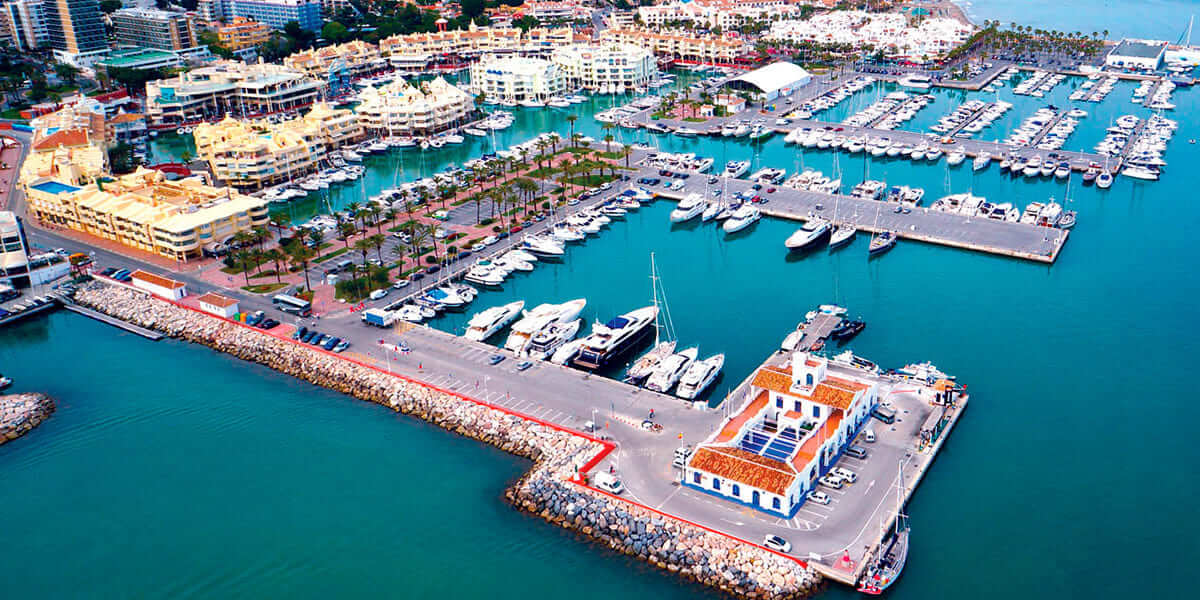
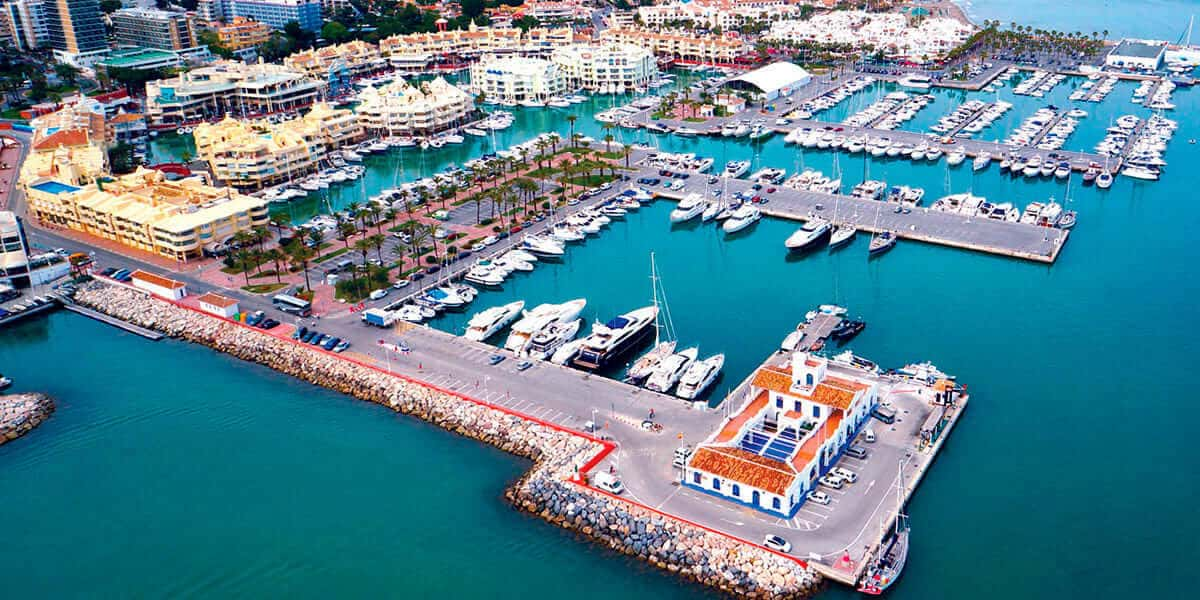
resize de img y agregado de alt

diff --git a/index.html b/index.html
@@ -18,7 +18,7 @@
       <div class="container py-2">
         <nav class="navbar navbar-expand-lg  navbar-dark  ">
           <div class="container-fluid">
-            <a class="navbar-brand" href="https://www.booking.com/hotel/es/the-boathouse.es.html?dest_type=city&group_adults=2&dest_id=-373144&sid=f385353f245ebfdc8c67cee8d29f7245&aid=397594&atlas_src=sr_iw_btn&type=total&sb_price_type=total&ucfs=1&label=gog235jc-1DCAEoggI46AdIClgDaEaIAQGYAQq4ARfIAQzYAQPoAQH4AQKIAgGoAgO4Ase_uZ4GwAIB0gIkNzZhNTFlMzItZWQ2Yy00YzJiLTkzZmQtYWY5ZDViZmU5MDk42AIE4AIB&no_rooms=1&room1=A%2CA&dist=0&group_children=0" target="_blank">
+            <a class="navbar-brand" href="https://www.booking.com/hotel/es/the-boathouse.es.html?dest_type=city&group_adults=2&dest_id=-373144&sid=f385353f245ebfdc8c67cee8d29f7245&aid=397594&atlas_src=sr_iw_btn&type=total&sb_price_type=total&ucfs=1&label=gog235jc-1DCAEoggI46AdIClgDaEaIAQGYAQq4ARfIAQzYAQPoAQH4AQKIAgGoAgO4Ase_uZ4GwAIB0gIkNzZhNTFlMzItZWQ2Yy00YzJiLTkzZmQtYWY5ZDViZmU5MDk42AIE4AIB&no_rooms=1&room1=A%2CA&dist=0&group_children=0" target="_blank" title="link_booking">
               <h1 class="header__logo">The Boathouse</h1>
             </a>
             <button class="navbar-toggler" type="button" data-bs-toggle="collapse"
@@ -29,25 +29,25 @@
             <div class="collapse navbar-collapse" id="navbarSupportedContent">
               <ul class="navbar-nav ms-auto mb-2 mb-lg-0 navbar__ul">
                 <li class="nav-item">
-                  <a class="nav-link nav__link-text" href="#descripcion">Descripición</a>
+                  <a class="nav-link nav__link-text" href="#descripcion" title="descripcion">Descripción</a>
                 </li>
                 <li class="nav-item">
-                  <a class="nav-link nav__link-text" href="#habitaciones">Habitaciones</a>
+                  <a class="nav-link nav__link-text" href="#habitaciones" tittle="habitaciones">Habitaciones</a>
                 </li>
                 <li class="nav-item">
-                  <a class="nav-link nav__link-text" href="#ubicacion">Ubicación</a>
+                  <a class="nav-link nav__link-text" href="#ubicacion" tittle="ubicación">Ubicación</a>
                 </li>
                 <li class="nav-item">
-                  <a class="nav-link nav__link-text" href="#contacto">Contacto</a>
+                  <a class="nav-link nav__link-text" href="#contacto" tittle="contacto">Contacto</a>
                 </li>
                 <li class="nav-item dropdown">
                   <a class="nav-link dropdown-toggle" href="#" role="button" data-bs-toggle="dropdown"
-                    aria-expanded="false">
+                    aria-expanded="false" title="menu_idiomas">
                     Idioma
                   </a>
                   <ul class="dropdown-menu">
-                    <li><a class="dropdown-item" href="#">Español</a></li>
-                    <li><a class="dropdown-item" href="#">English</a></li>
+                    <li><a class="dropdown-item" href="#" title="pag_español">Español</a></li>
+                    <li><a class="dropdown-item" href="#" title="pag_english">English</a></li>
                   </ul>
                 </li>
                 </ul>
@@ -60,7 +60,7 @@
   <!-------- MAIN -------->
   <main>
     <div class="main__banner banner">
-      <img src="./assets/img/benalmadena(2).jpg" alt="puerto marina benalmadena" class="d-block w-100 banner__img">
+      <img src="./assets/img/benalmadena(2).jpg" alt="puerto_marina_benalmadena" class="d-block w-100 banner__img">
     </div>
 
     <!-------- SECTION DESCRIPCION -------->
@@ -69,7 +69,7 @@
       <div class="container">
         <div class="row justify-content-center">
           <div class="text-center col-12 mt-5">
-            <h2>Descripición</h2>
+            <h2>Descripción</h2>
           </div>
 
           <div class="row align-items-center col-12">
@@ -150,7 +150,7 @@
 
           <div class="d-flex justify-content-center align-items-end">
             <button class="btn__style-1">
-              <a class="btn__link btn__comentarios" href="https://www.booking.com/hotel/es/the-boathouse.es.html?auth_success=1&activeTab=htReviews#tab-reviews" target="_blank" title="Comenarios booking">Más comentarios</a>
+              <a class="btn__link btn__comentarios" href="https://www.booking.com/hotel/es/the-boathouse.es.html?auth_success=1&activeTab=htReviews#tab-reviews" target="_blank" title="Comenarios booking" title="seccion_comentarios_booking">Más comentarios</a>
             </button>
           </div>
         </div>
@@ -173,49 +173,49 @@
               <div id="carouselExampleControls-2" class="carousel slide mx-auto my-auto" data-bs-ride="carousel">
                 <div class="carousel-inner d-flex align-items-center carousel__inner-habitaciones">
                   <div class="carousel-item active">
-                    <img src="./assets/img/theboathouse(1).jpg" class="d-block w-100 img-fluid" alt="...">
+                    <img src="./assets/img/theboathouse(1).jpg" class="d-block w-100 img-fluid" alt="imagen_espacio-1">
                   </div>
                   <div class="carousel-item">
-                    <img src="./assets/img/theboathouse(2).jpg" class="d-block w-100 img-fluid" alt="...">
+                    <img src="./assets/img/theboathouse(2).jpg" class="d-block w-100 img-fluid" alt="imagen_espacio-2">
                   </div>
                   <div class="carousel-item">
-                    <img src="./assets/img/theboathouse(3).jpg" class="d-block w-100 img-fluid" alt="...">
+                    <img src="./assets/img/theboathouse(3).jpg" class="d-block w-100 img-fluid" alt="imagen_espacio-3">
                   </div>
                   <div class="carousel-item">
-                    <img src="./assets/img/theboathouse(4).jpg" class="d-block w-100 img-fluid" alt="...">
+                    <img src="./assets/img/theboathouse(4).jpg" class="d-block w-100 img-fluid" alt="imagen_espacio-4">
                   </div>
                   <div class="carousel-item">
-                    <img src="./assets/img/theboathouse(5).jpg" class="d-block w-100 img-fluid" alt="...">
+                    <img src="./assets/img/theboathouse(5).jpg" class="d-block w-100 img-fluid" alt="imagen_espacio-5">
                   </div>
                   <div class="carousel-item">
-                    <img src="./assets/img/theboathouse(6).jpg" class="d-block w-100 img-fluid" alt="...">
+                    <img src="./assets/img/theboathouse(6).jpg" class="d-block w-100 img-fluid" alt="imagen_espacio-6">
                   </div>
                   <div class="carousel-item">
-                    <img src="./assets/img/theboathouse(7).jpg" class="d-block w-100 img-fluid" alt="...">
+                    <img src="./assets/img/theboathouse(7).jpg" class="d-block w-100 img-fluid" alt="imagen_espacio-7">
                   </div>
                   <div class="carousel-item">
-                    <img src="./assets/img/theboathouse(10).jpg" class="d-block w-100 img-fluid" alt="...">
+                    <img src="./assets/img/theboathouse(10).jpg" class="d-block w-100 img-fluid" alt="imagen_espacio-8">
                   </div>
                   <div class="carousel-item">
-                    <img src="./assets/img/theboathouse(11).jpg" class="d-block w-100 img-fluid" alt="...">
+                    <img src="./assets/img/theboathouse(11).jpg" class="d-block w-100 img-fluid" alt="imagen_espacio-9">
                   </div>
                   <div class="carousel-item">
-                    <img src="./assets/img/theboathouse(12).jpg" class="d-block w-100 img-fluid" alt="...">
+                    <img src="./assets/img/theboathouse(12).jpg" class="d-block w-100 img-fluid" alt="imagen_espacio-10">
                   </div>
                   <div class="carousel-item">
-                    <img src="./assets/img/theboathouse(14).jpg" class="d-block w-100 img-fluid" alt="...">
+                    <img src="./assets/img/theboathouse(14).jpg" class="d-block w-100 img-fluid" alt="imagen_espacio-11">
                   </div>
                   <div class="carousel-item">
-                    <img src="./assets/img/theboathouse(15).jpg" class="d-block w-100 img-fluid" alt="...">
+                    <img src="./assets/img/theboathouse(15).jpg" class="d-block w-100 img-fluid" alt="imagen_espacio-12">
                   </div>
                   <div class="carousel-item">
-                    <img src="./assets/img/theboathouse(17).jpg" class="d-block w-100 img-fluid" alt="...">
+                    <img src="./assets/img/theboathouse(17).jpg" class="d-block w-100 img-fluid" alt="imagen_espacio-13">
                   </div>
                   <div class="carousel-item">
-                    <img src="./assets/img/theboathouse(18).jpg" class="d-block w-100 img-fluid" alt="...">
+                    <img src="./assets/img/theboathouse(18).jpg" class="d-block w-100 img-fluid" alt="imagen_espacio-14">
                   </div>
                   <div class="carousel-item">
-                    <img src="./assets/img/theboathouse(19).jpg" class="d-block w-100 img-fluid" alt="...">
+                    <img src="./assets/img/theboathouse(19).jpg" class="d-block w-100 img-fluid" alt="imagen_espacio-15">
                   </div>
                 </div>
                 <button class="carousel-control-prev" type="button" data-bs-target="#carouselExampleControls-2"
@@ -241,7 +241,7 @@
           </div>
           <div class="d-flex justify-content-center align-items-end mt-5">
             <button type="button" class="btn__style-2" href="#" role="button">
-              <a class="btn__link" href="https://www.booking.com/hotel/es/the-boathouse.es.html?aid=397594&label=gog235jc-1DCAEoggI46AdIClgDaEaIAQGYAQq4ARfIAQzYAQPoAQH4AQKIAgGoAgO4Ase_uZ4GwAIB0gIkNzZhNTFlMzItZWQ2Yy00YzJiLTkzZmQtYWY5ZDViZmU5MDk42AIE4AIB&sid=f385353f245ebfdc8c67cee8d29f7245&atlas_src=sr_iw_btn&dest_id=-373144&dest_type=city&dist=0&group_adults=2&group_children=0&no_rooms=1&room1=A%2CA&sb_price_type=total&type=total&ucfs=1&activeTab=photosGallery" target="_blank" title="link a imagenes booking"> Más imágenes</a>
+              <a class="btn__link" href="https://www.booking.com/hotel/es/the-boathouse.es.html?aid=397594&label=gog235jc-1DCAEoggI46AdIClgDaEaIAQGYAQq4ARfIAQzYAQPoAQH4AQKIAgGoAgO4Ase_uZ4GwAIB0gIkNzZhNTFlMzItZWQ2Yy00YzJiLTkzZmQtYWY5ZDViZmU5MDk42AIE4AIB&sid=f385353f245ebfdc8c67cee8d29f7245&atlas_src=sr_iw_btn&dest_id=-373144&dest_type=city&dist=0&group_adults=2&group_children=0&no_rooms=1&room1=A%2CA&sb_price_type=total&type=total&ucfs=1&activeTab=photosGallery" target="_blank" title="seccion_imagenes_booking"> Más imágenes</a>
             </button>
           </div>
         </div>
@@ -250,7 +250,7 @@
 
     <!-------- SECTION UBICACION -------->
 
-    <section id="ubicacion" class="container-fluid mt-5">
+    <section id="ubicacion" class="container-fluid">
       <div class="container">
         <div class="row justify-content-center py-5">
           <div class="text-center col-12">
@@ -316,7 +316,7 @@
         
           <div class="d-flex align-items-center">
             <p class="mb-0 me-3">Realiza tu reserva en</p>
-            <a class="text-decoration-none" href="https://www.booking.com/hotel/es/the-boathouse.es.html?dest_type=city&group_adults=2&dest_id=-373144&sid=f385353f245ebfdc8c67cee8d29f7245&aid=397594&atlas_src=sr_iw_btn&type=total&sb_price_type=total&ucfs=1&label=gog235jc-1DCAEoggI46AdIClgDaEaIAQGYAQq4ARfIAQzYAQPoAQH4AQKIAgGoAgO4Ase_uZ4GwAIB0gIkNzZhNTFlMzItZWQ2Yy00YzJiLTkzZmQtYWY5ZDViZmU5MDk42AIE4AIB&no_rooms=1&room1=A%2CA&dist=0&group_children=0">
+            <a class="text-decoration-none" href="https://www.booking.com/hotel/es/the-boathouse.es.html?dest_type=city&group_adults=2&dest_id=-373144&sid=f385353f245ebfdc8c67cee8d29f7245&aid=397594&atlas_src=sr_iw_btn&type=total&sb_price_type=total&ucfs=1&label=gog235jc-1DCAEoggI46AdIClgDaEaIAQGYAQq4ARfIAQzYAQPoAQH4AQKIAgGoAgO4Ase_uZ4GwAIB0gIkNzZhNTFlMzItZWQ2Yy00YzJiLTkzZmQtYWY5ZDViZmU5MDk42AIE4AIB&no_rooms=1&room1=A%2CA&dist=0&group_children=0" tiitle="link_booking">
               <h3>Booking.com</h3>
             </a>
     </div>
